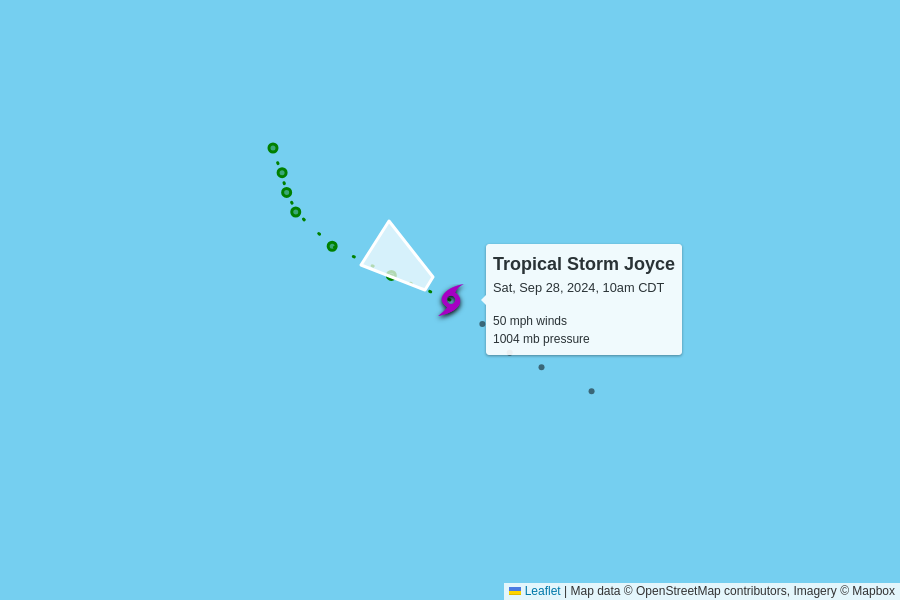
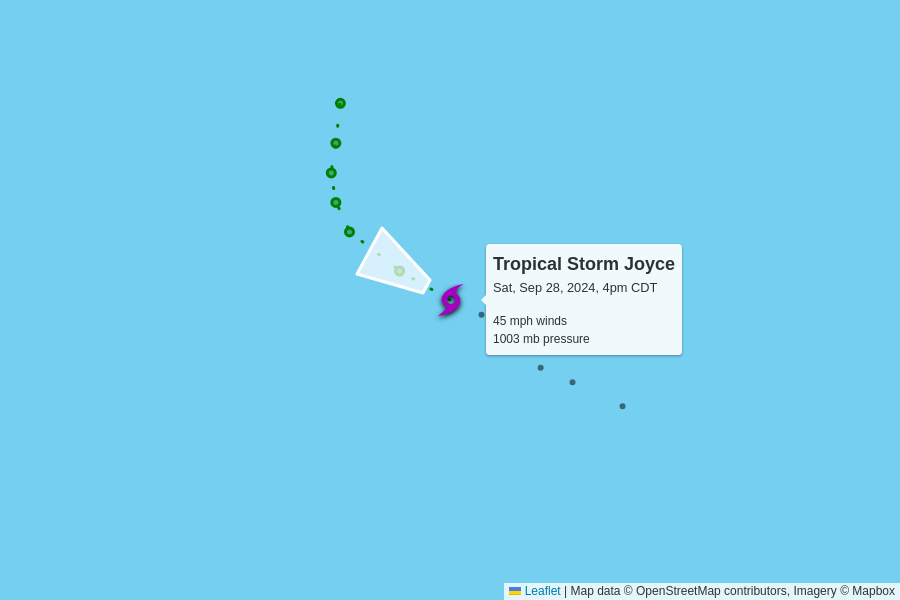
automatic update

diff --git a/docs/index.html b/docs/index.html
@@ -101,32 +101,10 @@
 
     <table>
       <tr>
-        <td colspan="6" class="storm " style="cursor:pointer;" onClick="toggle('AL092024')">
-          <h2>🏁 Helene
-          </h2>
-        </td>
-      </tr>
-      
-      <tr id="storm_AL092024" style="display:none;">
-        <td class="spacer">
-        <td colspan="5">
-          <figure>
-            <img src="AL092024.png">
-            <figcaption>
-              Map data &copy; <a href="https://www.openstreetmap.org/copyright">OpenStreetMap</a> contributors,
-              Imagery &copy; <a href="https://www.mapbox.com/">Mapbox</a> |
-              <a href="https://www.mapbox.com/map-feedback/" target="_blank">Improve this map</a>
-            </figcaption>
-          </figure>
-        </td>
-      </tr>
-      
-
-      <tr>
         <td colspan="6" class="storm category-2" >
           <h2>
             Hurricane Isaac - Category 2
-            <p class="updated">last updated <span data-time>2024-09-28T15:00:00.000Z</span></p>
+            <p class="updated">last updated <span data-time>2024-09-28T21:00:00.000Z</span></p>
           </h2>
         </td>
       </tr>
@@ -141,12 +119,12 @@
       </tr>
       <tr>
         <td class="spacer"></td>
-        <td>105 mph<br>0 mph since last update</td>
+        <td>100 mph<br>-5 mph since last update</td>
         <td>968 mb<br>0 mb since last update</td>
         <td>
-          20 mph to the east-northeast
+          18 mph to the northeast
           <br/>
-          <span style="display: inline-block; font-size: 1.5em; transform: rotate(60deg);">↑</span>
+          <span style="display: inline-block; font-size: 1.5em; transform: rotate(45deg);">↑</span>
         </td>
         <td><a href="https://raw.githubusercontent.com/mgwalker/atlantic-hurricanes/main/data/csv/AL102024.csv">AL102024.csv</a></td>
         <td><a href="https://www.nhc.noaa.gov/archive/2024/ISAAC.shtml?">NHC advisories</a></td>
@@ -170,7 +148,7 @@
         <td colspan="6" class="storm category-0" >
           <h2>
             Tropical Storm Joyce
-            <p class="updated">last updated <span data-time>2024-09-28T15:00:00.000Z</span></p>
+            <p class="updated">last updated <span data-time>2024-09-28T21:00:00.000Z</span></p>
           </h2>
         </td>
       </tr>
@@ -185,12 +163,12 @@
       </tr>
       <tr>
         <td class="spacer"></td>
-        <td>50 mph<br>0 mph since last update</td>
-        <td>1004 mb<br>0 mb since last update</td>
+        <td>45 mph<br>-5 mph since last update</td>
+        <td>1003 mb<br>-1 mb since last update</td>
         <td>
-          10 mph to the northwest
+          9 mph to the west-northwest
           <br/>
-          <span style="display: inline-block; font-size: 1.5em; transform: rotate(305deg);">↑</span>
+          <span style="display: inline-block; font-size: 1.5em; transform: rotate(300deg);">↑</span>
         </td>
         <td><a href="https://raw.githubusercontent.com/mgwalker/atlantic-hurricanes/main/data/csv/AL112024.csv">AL112024.csv</a></td>
         <td><a href="https://www.nhc.noaa.gov/archive/2024/JOYCE.shtml?">NHC advisories</a></td>
@@ -200,6 +178,28 @@
         <td colspan="5">
           <figure>
             <img src="AL112024.png">
+            <figcaption>
+              Map data &copy; <a href="https://www.openstreetmap.org/copyright">OpenStreetMap</a> contributors,
+              Imagery &copy; <a href="https://www.mapbox.com/">Mapbox</a> |
+              <a href="https://www.mapbox.com/map-feedback/" target="_blank">Improve this map</a>
+            </figcaption>
+          </figure>
+        </td>
+      </tr>
+      
+
+      <tr>
+        <td colspan="6" class="storm " style="cursor:pointer;" onClick="toggle('AL092024')">
+          <h2>🏁 Helene
+          </h2>
+        </td>
+      </tr>
+      
+      <tr id="storm_AL092024" style="display:none;">
+        <td class="spacer">
+        <td colspan="5">
+          <figure>
+            <img src="AL092024.png">
             <figcaption>
               Map data &copy; <a href="https://www.openstreetmap.org/copyright">OpenStreetMap</a> contributors,
               Imagery &copy; <a href="https://www.mapbox.com/">Mapbox</a> |
